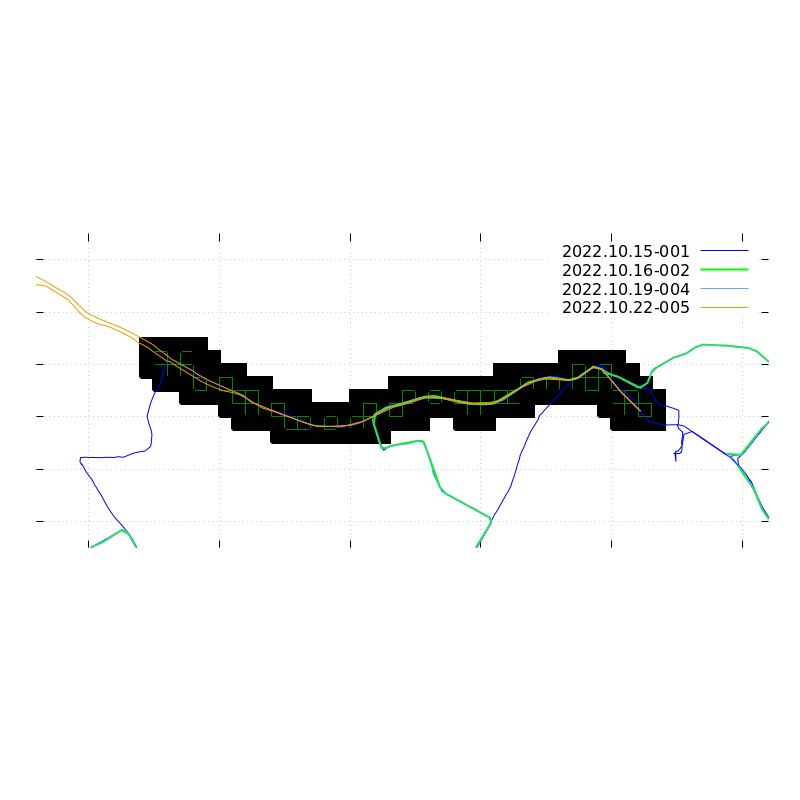
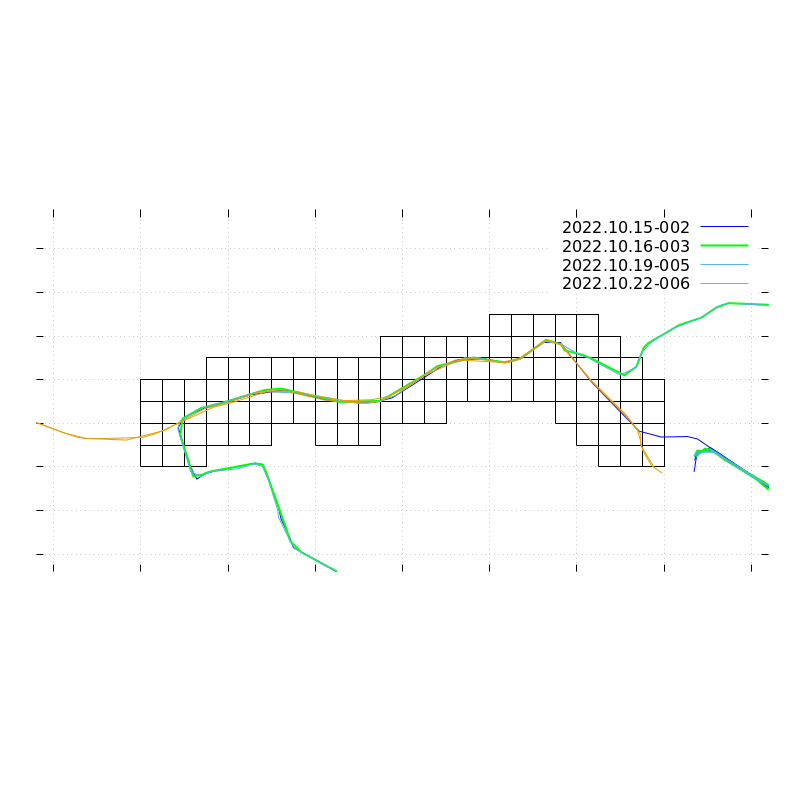
better colors, update README

diff --git a/misc/garmin/plot.py b/misc/garmin/plot.py
@@ -75,11 +75,11 @@ def plot_boxeset(boxset,filename,color=1):
 		A=center(geomin(p));
 		B=center(geomax(p));
 		s+=f"set object {counter:d} rect from {A.x():d},{A.y():d} to {B.x():d},{B.y():d}\n"
-		if border:
+		#if border:
 			# set object 1 back clip linewidth 5 fc rgb "blue" fillstyle solid border lc rgb "black"
-			s+=f"set object {counter:d} back clip lw 3 fc rgb \"{lrgb:s}\" fillstyle solid border lc rgb \"black\"\n"
-		else:
-			s+=f"set object {counter:d} back clip lw 1 fc rgb \"{lrgb:s}\" fillstyle solid\n"
+		s+=f"set object {counter:d} back clip lw 1 fc rgb \"white\" fillstyle solid border lc rgb \"black\"\n"
+		#else:
+		#s+=f"set object {counter:d} back clip lw 1 fc rgb \"{lrgb:s}\" fillstyle solid\n"
 		counter = counter + 1;
 	f=open(filename,'w');
 	f.write(s);

diff --git a/misc/garmin/README.md b/misc/garmin/README.md
@@ -4,8 +4,8 @@
 
 The tool parses the GPX files from a directory. 
 It cleans the content, because:
-- One route might be present in several gpx files. This happens if you don't remove the files from the GPS device after a backup.
-- Parts of the GPS data is noise. The device is typically turned on *before* the start of a tour and turned off *after* its end. These parts of the data should be removed. This is done based on the coordinates of your home, considering the data around this point is noise. (TODO: fix that.)
+- One route might be present in several gpx files. (This happens if you don't remove the files from the GPS device after a backup).
+- The device is typically turned on *before* the start of a tour and turned off *after* its end. These parts of the data are removed.
 
 Then the tool classifies the tour into three categories: running, cycling, and "none". The classification is based on the average speed.
 
@@ -27,49 +27,60 @@ You need to have the GPX files you want to analyse in one directory, which will 
 
 Assuming i have some GPS files under `~/tracks` in my home directory:
 ```
-$ python3 main.py ~/tracks/
 read files..
 clean tracks..
 categorizing..
 OK
 # category cycling
-2022.10.16-002  | 08:49 |  25.7 km | 01:03 | 24.4 kmh |
-2022.10.19-004  | 12:52 |  25.7 km | 01:00 | 25.6 kmh |
-2022.10.15-001  | 15:49 |  37.7 km | 03:11 | 11.8 kmh |
-2022.10.22-005  | 17:26 | 342.2 km | 25:29 | 13.4 kmh |
-total cycling   :  431.3 km | 30.7h
+2022.10.19-005  | 12:51 |  26.1 km | 01:01 | 25.6 kmh |
+2022.10.16-003  | 08:48 |  26.1 km | 01:04 | 24.2 kmh |
+2022.10.15-002  | 17:34 |  31.4 km | 01:27 | 21.5 kmh |
+2022.10.22-006  | 17:25 | 342.5 km | 25:30 | 13.4 kmh |
+total cycling   :  426.2 km | 29.1h
 -------------------------------------------------------
-2022.10.15-001  | 15:49 |   2.1 km | 00:25 |  5.0 kmh |
-2022.10.15-001  | 17:01 |   0.6 km | 00:06 |  5.0 kmh |
-2022.10.15-001  | 18:28 |   1.4 km | 00:02 | 29.1 kmh |
-2022.10.22-005  | 17:26 |   2.1 km | 00:06 | 20.0 kmh |
-2022.10.22-005  | 18:49 |   2.1 km | 00:06 | 19.2 kmh |
+2022.10.15-002  | 18:28 |   1.4 km | 00:02 | 29.1 kmh |
+2022.10.22-006  | 17:25 |   1.4 km | 00:04 | 18.5 kmh |
+2022.10.22-006  | 18:53 |   1.4 km | 00:03 | 21.7 kmh |
 /tmp/cycling-segment-0.gnuplot #visits:  2
 ------------------------------------------------------------
-2022.10.15-001  | 15:49 |   1.2 km | 00:18 |  4.0 kmh |
-2022.10.15-001  | 17:01 |   0.6 km | 00:06 |  5.0 kmh |
-2022.10.15-001  | 18:28 |   1.3 km | 00:02 | 29.0 kmh |
-2022.10.16-002  | 09:47 |   1.2 km | 00:02 | 30.3 kmh |
-2022.10.19-004  | 13:47 |   1.2 km | 00:02 | 29.0 kmh |
-2022.10.22-005  | 17:26 |   1.2 km | 00:03 | 18.5 kmh |
-2022.10.22-005  | 18:53 |   1.2 km | 00:02 | 24.8 kmh |
+2022.10.15-002  | 18:28 |   1.3 km | 00:02 | 29.0 kmh |
+2022.10.16-003  | 09:47 |   1.2 km | 00:02 | 30.3 kmh |
+2022.10.19-005  | 13:47 |   1.2 km | 00:02 | 29.0 kmh |
+2022.10.22-006  | 17:26 |   1.2 km | 00:03 | 18.5 kmh |
+2022.10.22-006  | 18:53 |   1.2 km | 00:02 | 24.8 kmh |
 /tmp/cycling-segment-1.gnuplot #visits:  4
 ------------------------------------------------------------
 
 # category running
-2022.10.17-003  | 12:26 |   6.5 km | 00:43 |  9.0 kmh |
-2022.10.11-000  | 16:53 |   6.7 km | 00:46 |  8.6 kmh |
-total running   :   13.3 km |  1.5h
+2022.10.15-001  | 15:48 |   6.4 km | 01:23 |  4.7 kmh |
+2022.10.17-004  | 12:25 |   6.9 km | 00:46 |  9.0 kmh |
+2022.10.11-000  | 16:52 |   7.1 km | 00:49 |  8.6 kmh |
+total running   :   20.4 km |  3.0h
 -------------------------------------------------------
-2022.10.11-000  | 16:53 |   1.7 km | 00:11 |  9.0 kmh |
-2022.10.11-000  | 17:23 |   2.4 km | 00:17 |  8.4 kmh |
-2022.10.17-003  | 12:26 |   1.8 km | 00:11 |  9.2 kmh |
-2022.10.17-003  | 12:55 |   2.4 km | 00:15 |  9.4 kmh |
+2022.10.15-001  | 15:48 |   3.5 km | 00:38 |  5.5 kmh |
+2022.10.15-001  | 17:02 |   0.5 km | 00:06 |  4.9 kmh |
+2022.10.15-001  | 17:09 |   0.1 km | 00:01 |  3.7 kmh |
+2022.10.17-004  | 12:25 |   3.4 km | 00:22 |  8.8 kmh |
+2022.10.17-004  | 12:55 |   1.3 km | 00:08 |  9.4 kmh |
+2022.10.17-004  | 13:11 |   0.1 km | 00:00 |  8.4 kmh |
 /tmp/running-segment-0.gnuplot #visits:  2
 ------------------------------------------------------------
-2022.10.11-000  | 17:10 |   0.5 km | 00:03 |  8.7 kmh |
-2022.10.17-003  | 12:49 |   0.4 km | 00:02 |  8.3 kmh |
+2022.10.11-000  | 16:52 |   1.8 km | 00:12 |  9.1 kmh |
+2022.10.11-000  | 17:23 |   2.6 km | 00:18 |  8.4 kmh |
+2022.10.17-004  | 12:25 |   1.9 km | 00:12 |  9.3 kmh |
+2022.10.17-004  | 12:55 |   2.6 km | 00:16 |  9.3 kmh |
 /tmp/running-segment-1.gnuplot #visits:  2
+------------------------------------------------------------
+2022.10.11-000  | 16:52 |   1.8 km | 00:12 |  9.1 kmh |
+2022.10.11-000  | 17:23 |   1.4 km | 00:10 |  7.8 kmh |
+2022.10.11-000  | 17:41 |   0.1 km | 00:00 |  8.1 kmh |
+2022.10.15-001  | 15:48 |   2.0 km | 00:24 |  4.9 kmh |
+2022.10.15-001  | 17:02 |   0.5 km | 00:06 |  4.9 kmh |
+2022.10.15-001  | 17:09 |   0.1 km | 00:01 |  3.7 kmh |
+2022.10.17-004  | 12:25 |   1.9 km | 00:12 |  9.3 kmh |
+2022.10.17-004  | 12:55 |   1.3 km | 00:08 |  9.4 kmh |
+2022.10.17-004  | 13:11 |   0.1 km | 00:00 |  8.4 kmh |
+/tmp/running-segment-2.gnuplot #visits:  3
 ------------------------------------------------------------
 ```
 
